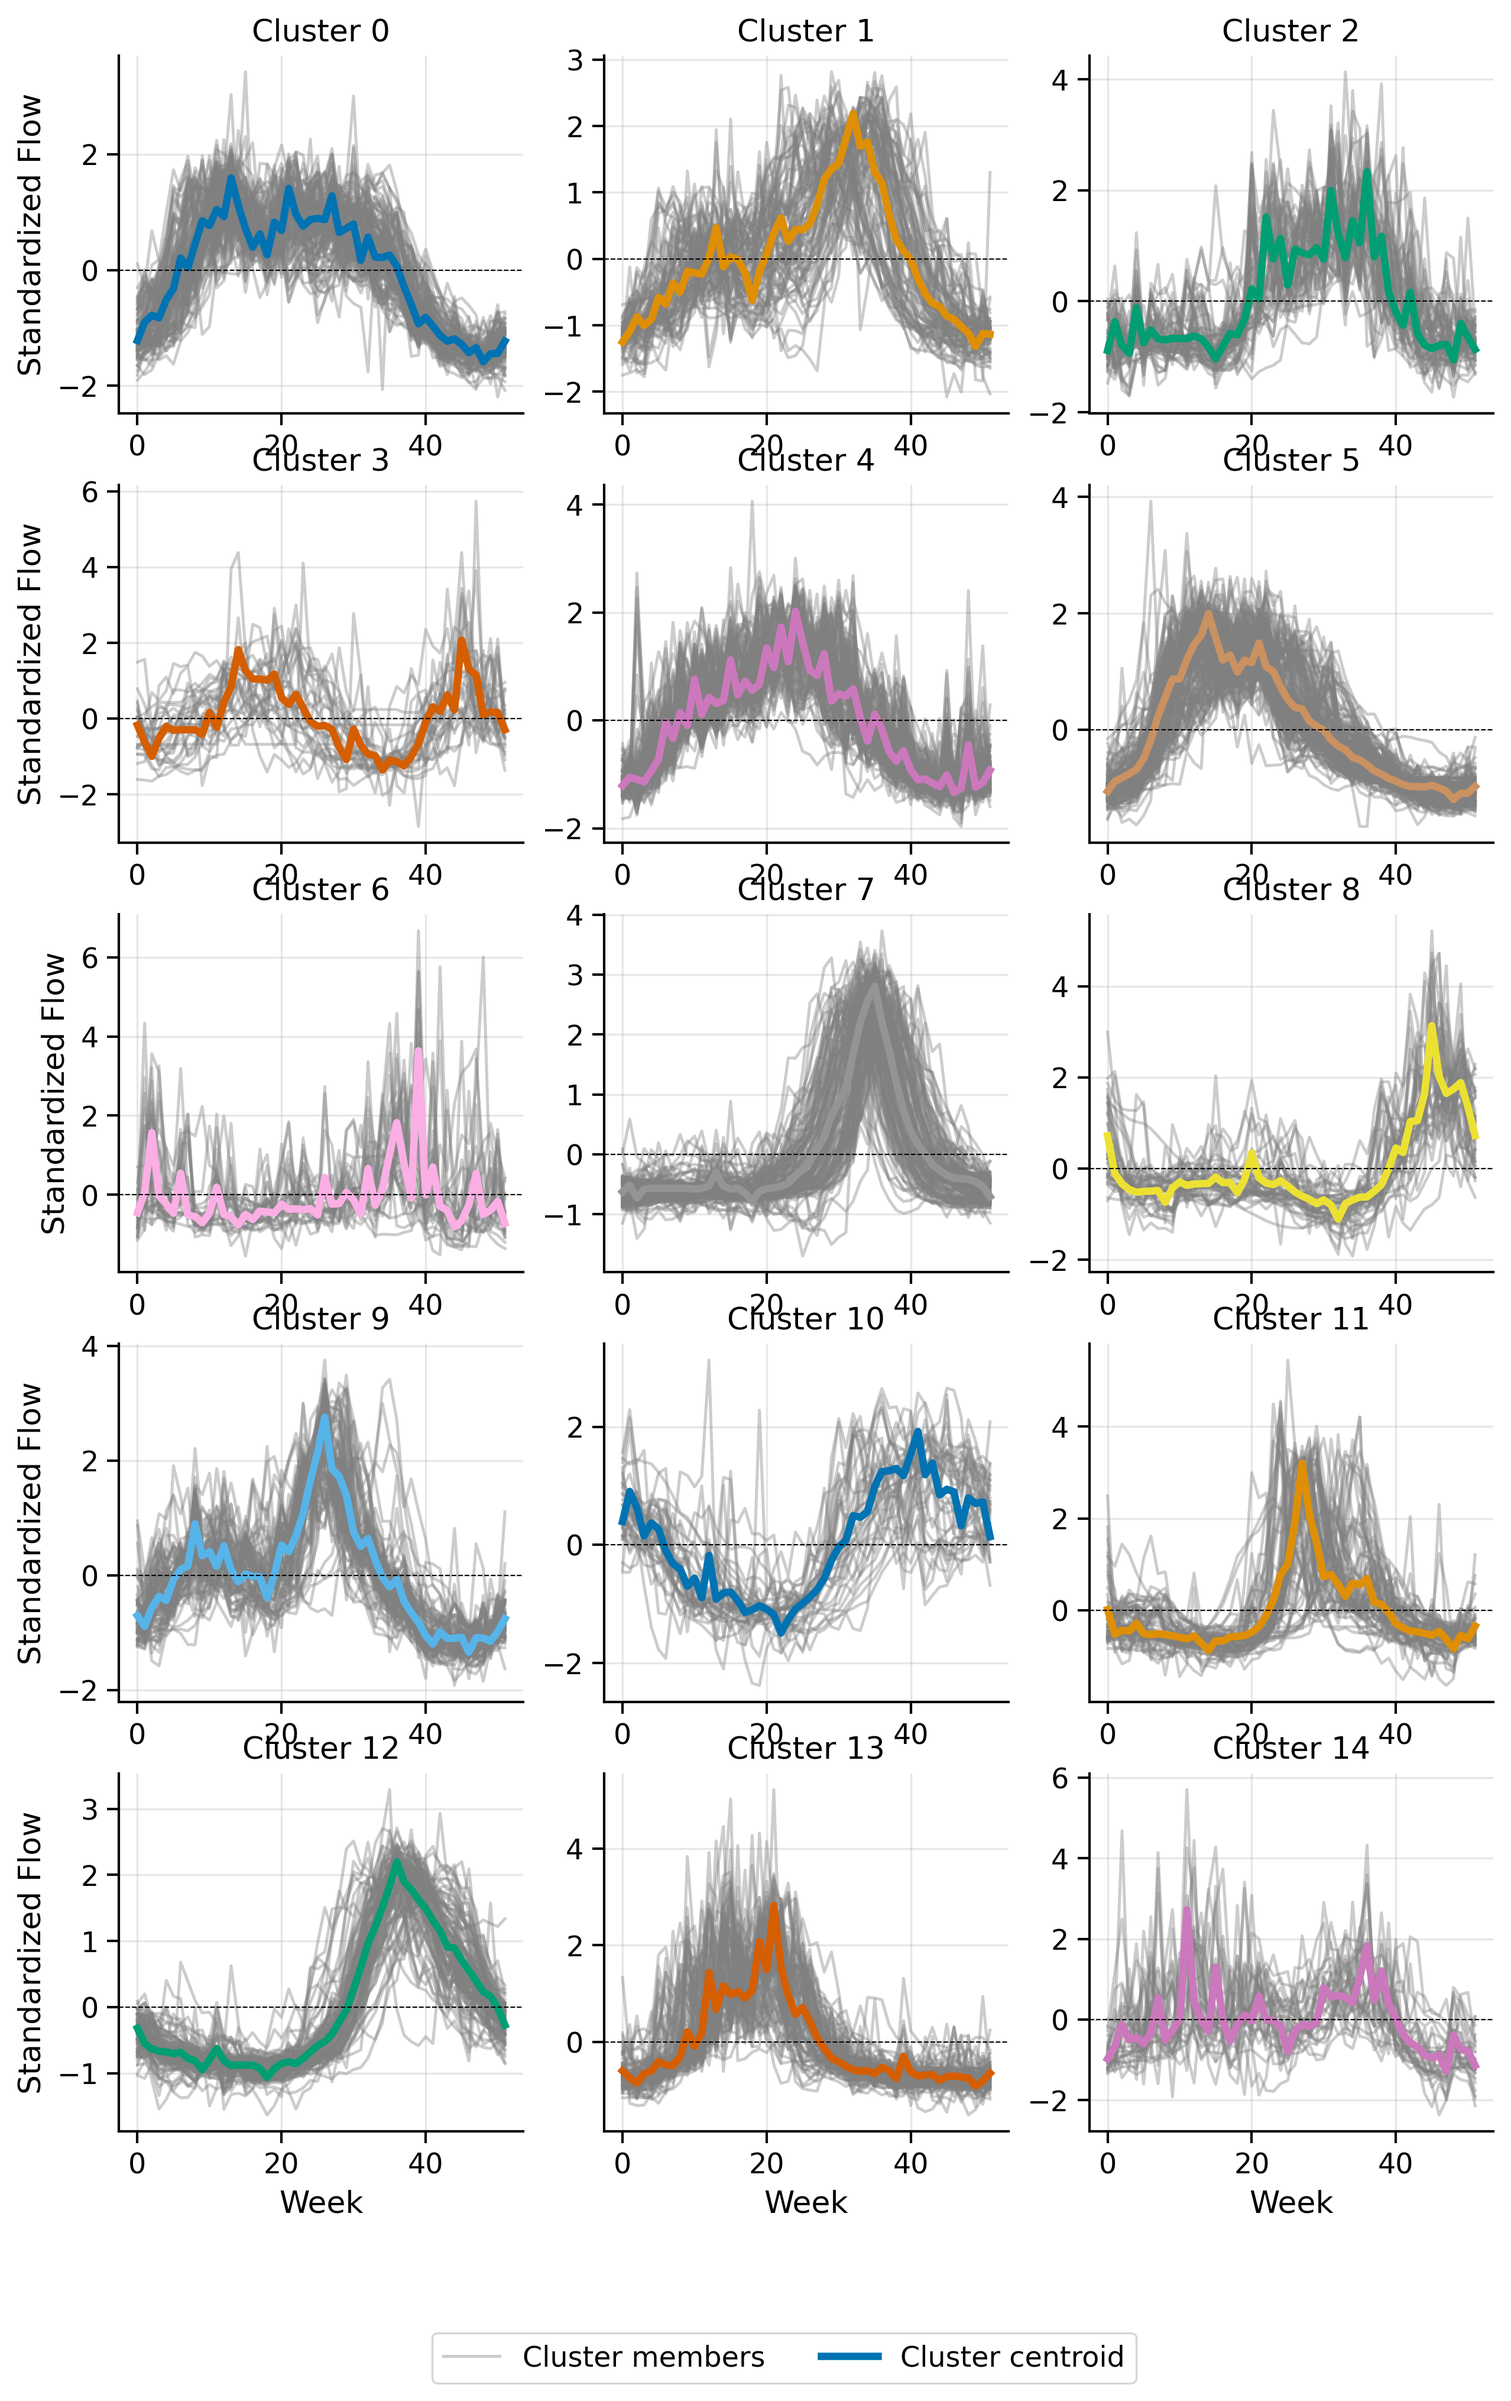
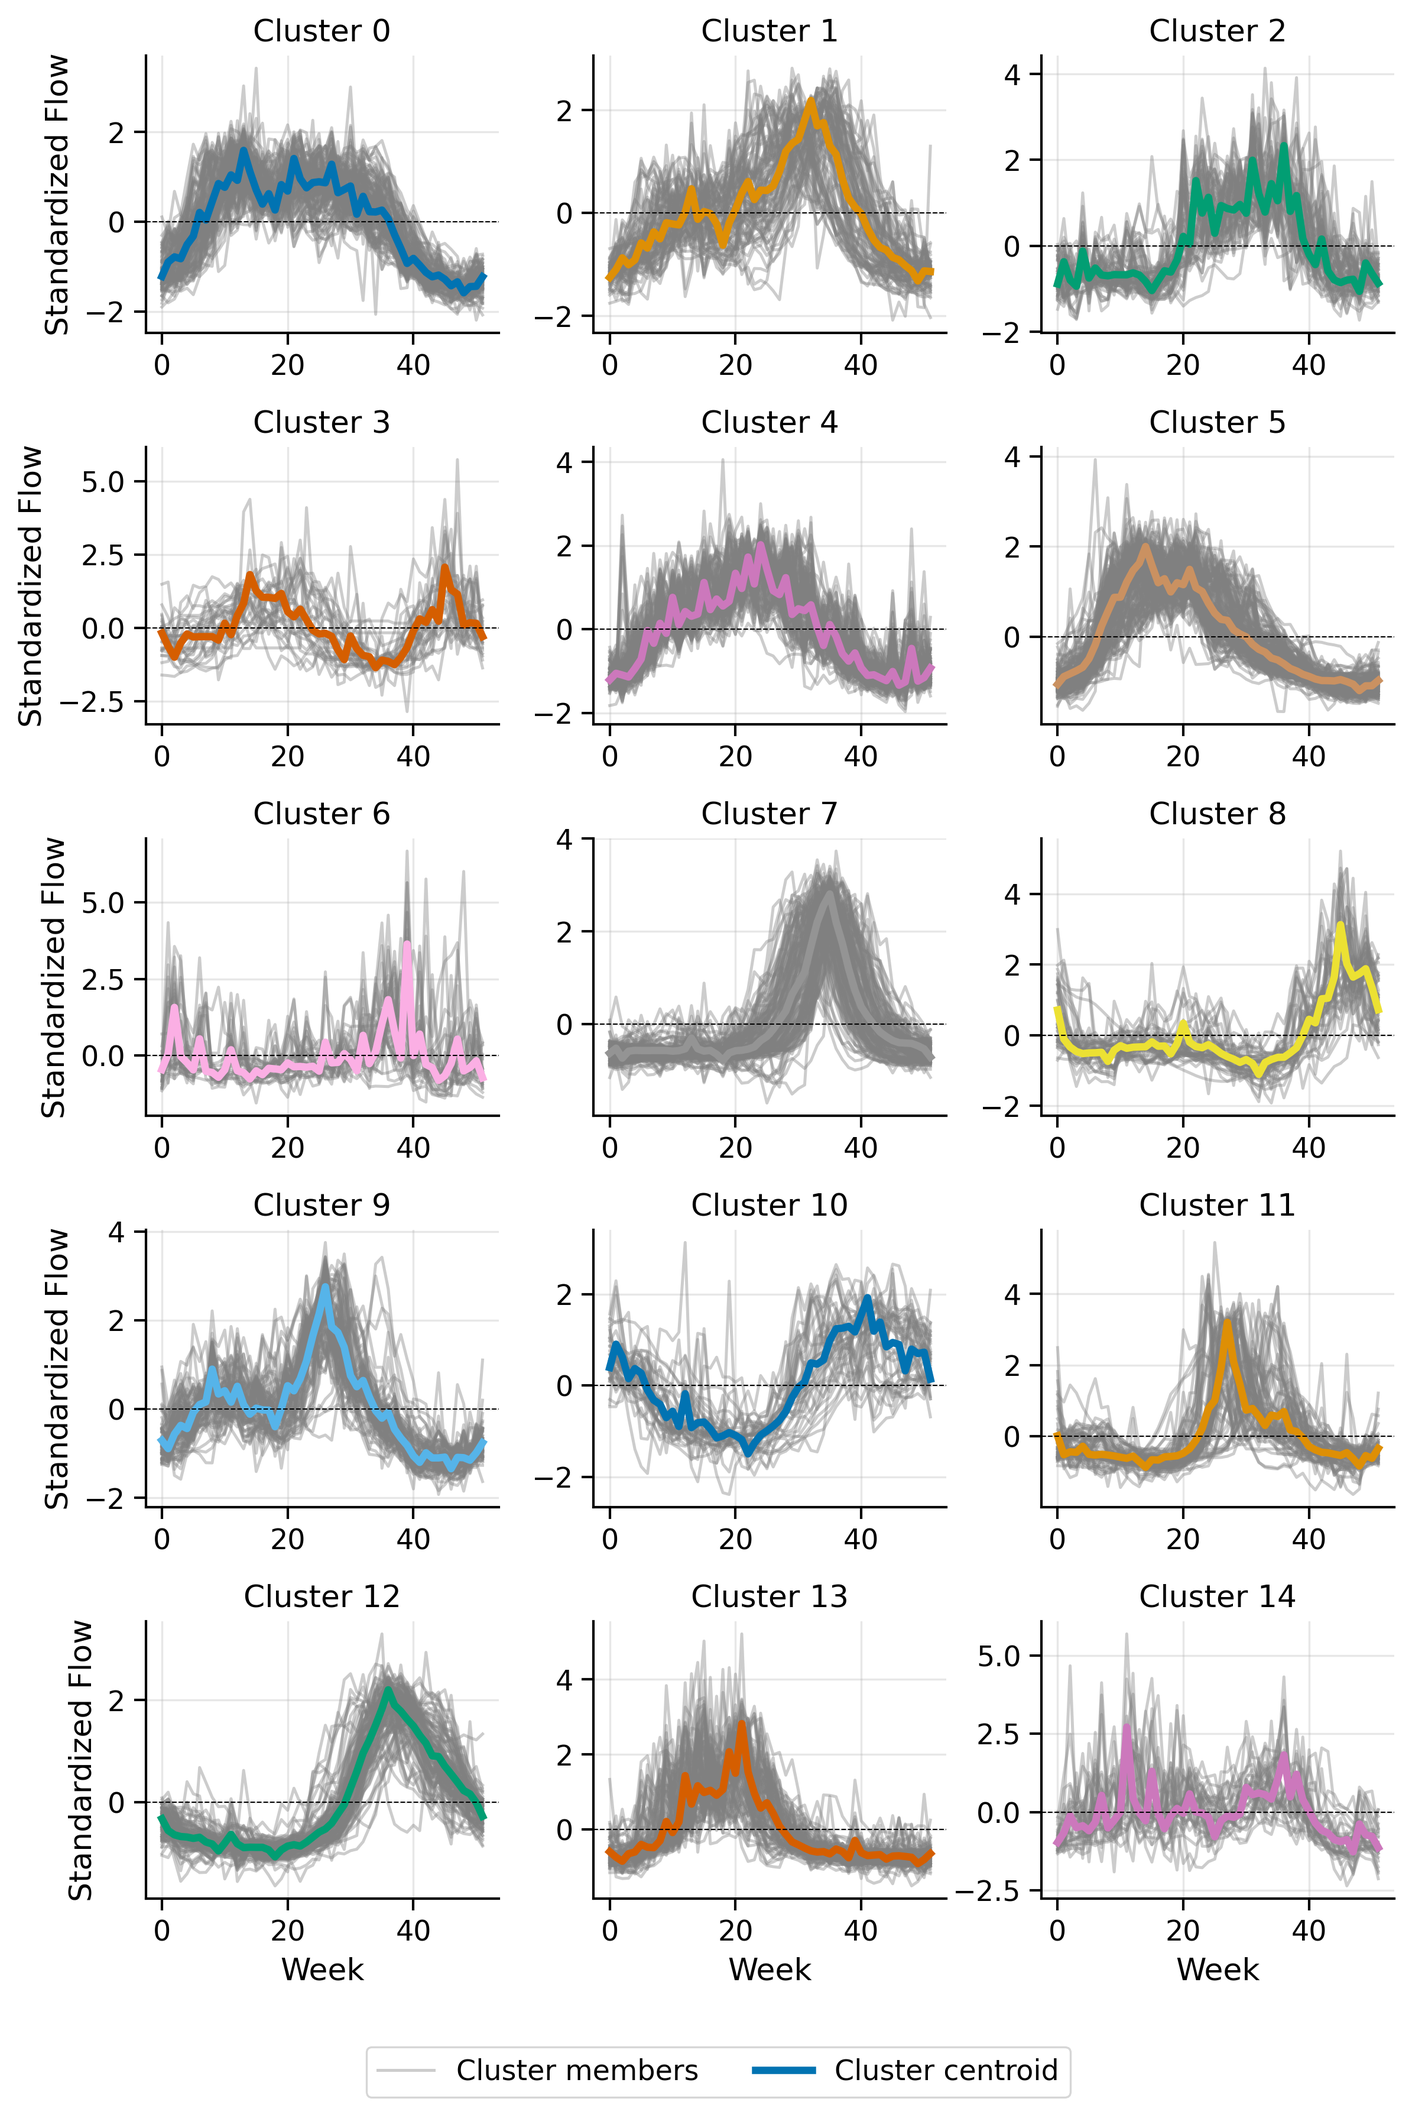
Recluster similar basins

diff --git a/clustering/cluster_all.py b/clustering/cluster_all.py
@@ -28,17 +28,17 @@ class ClusteringConfig:
     timeseries_base_dir: str
 
     # Clustering parameters
-    min_clusters: int = 4
-    max_clusters: int = 20
+    min_clusters: int = 10
+    max_clusters: int = 18
     max_iter: int = 75
     n_jobs: int = -1
     warping_window: float = 0.2
 
     # Output paths
     output_dir: str = "./clustering_results"
-    elbow_plot_filename: str = "elbow_plot_shifted.png"
-    cluster_plot_filename: str = "cluster_plot_shifted_test.png"
-    results_csv_filename: str = "cluster_assignments_shifted_test.csv"
+    elbow_plot_filename: str = "elbow_plot_shifted_refactor.png"
+    cluster_plot_filename: str = "cluster_plot_shifted_refactor.png"
+    results_csv_filename: str = "cluster_assignments_shifted_refactor.csv"
 
     # Optimization method
     optimization_method: str = "elbow"  # 'elbow' or 'silhouette'
@@ -154,27 +154,27 @@ def main(config: ClusteringConfig):
     )
 
     # Optimize clusters
-    # print(
-    #     f"Optimizing number of clusters from {config.min_clusters} to {config.max_clusters}..."
-    # )
-    # clusterer.optimize_clusters(
-    #     ts_data_standardized, config.min_clusters, config.max_clusters
-    # )
+    print(
+        f"Optimizing number of clusters from {config.min_clusters} to {config.max_clusters}..."
+    )
+    clusterer.optimize_clusters(
+        ts_data_standardized, config.min_clusters, config.max_clusters
+    )
 
     # Plot and save optimization results
-    # plt.figure(figsize=(15, 7))
-    # clusterer.plot_cluster_optimization(save_path=elbow_plot_path)
-    # plt.close()
-    # print(f"Saved optimization plot to {elbow_plot_path}")
+    plt.figure(figsize=(15, 7))
+    clusterer.plot_cluster_optimization(save_path=elbow_plot_path)
+    plt.close()
+    print(f"Saved optimization plot to {elbow_plot_path}")
 
     # Get recommended number of clusters
-    # optimal_clusters = clusterer.recommend_clusters(method=config.optimization_method)
-    # print(f"Recommended number of clusters: {optimal_clusters}")
+    optimal_clusters = clusterer.recommend_clusters(method=config.optimization_method)
+    print(f"Recommended number of clusters: {optimal_clusters}")
 
     # # Fit with recommended clusters
-    # print(f"Fitting clusterer with {optimal_clusters} clusters...")
+    print(f"Fitting clusterer with {optimal_clusters} clusters...")
     clusterer = TimeSeriesClusterer(
-        n_clusters=15,
+        n_clusters=optimal_clusters,
         max_iter=config.max_iter,
         n_jobs=config.n_jobs,
         warping_window=config.warping_window,
@@ -207,7 +207,7 @@ if __name__ == "__main__":
         timeseries_base_dir="/workspace/CARAVANIFY",
         output_dir="./clustering_results",
         min_clusters=10,
-        max_clusters=20,
+        max_clusters=18,
         max_iter=75,
         n_jobs=-1,
         warping_window=0.2,

diff --git a/clustering/time_series_clusterer.py b/clustering/time_series_clusterer.py
@@ -314,7 +314,7 @@ class TimeSeriesClusterer:
         rows = (self.n_clusters + cols - 1) // cols  # Ceiling division to get rows
 
         # Create a single figure with subplots
-        fig, axes = plt.subplots(rows, cols, figsize=(10, 15), squeeze=False)
+        fig, axes = plt.subplots(rows, cols, figsize=(10, 12), squeeze=False)
 
         # Flatten the axes array for easier indexing
         axes_flat = axes.flatten()
@@ -397,6 +397,8 @@ class TimeSeriesClusterer:
         for j in range(self.n_clusters, len(axes_flat)):
             fig.delaxes(axes_flat[j])
 
+        plt.subplots_adjust(bottom=0.1)
+
         # Add a single legend at the bottom of the figure
         fig.legend(
             handles=legend_handles,
@@ -409,13 +411,10 @@ class TimeSeriesClusterer:
 
         # Add padding at the bottom for the legend
         plt.subplots_adjust(bottom=0.1)
+        plt.tight_layout()
 
         if save_path:
             plt.savefig(save_path, dpi=300, bbox_inches="tight")
-
-        plt.tight_layout()
-        # Adjust after tight_layout to make room for the legend
-        plt.subplots_adjust(bottom=0.1)
         plt.show()
 
     def describe_clusters(self) -> List[dict]:
